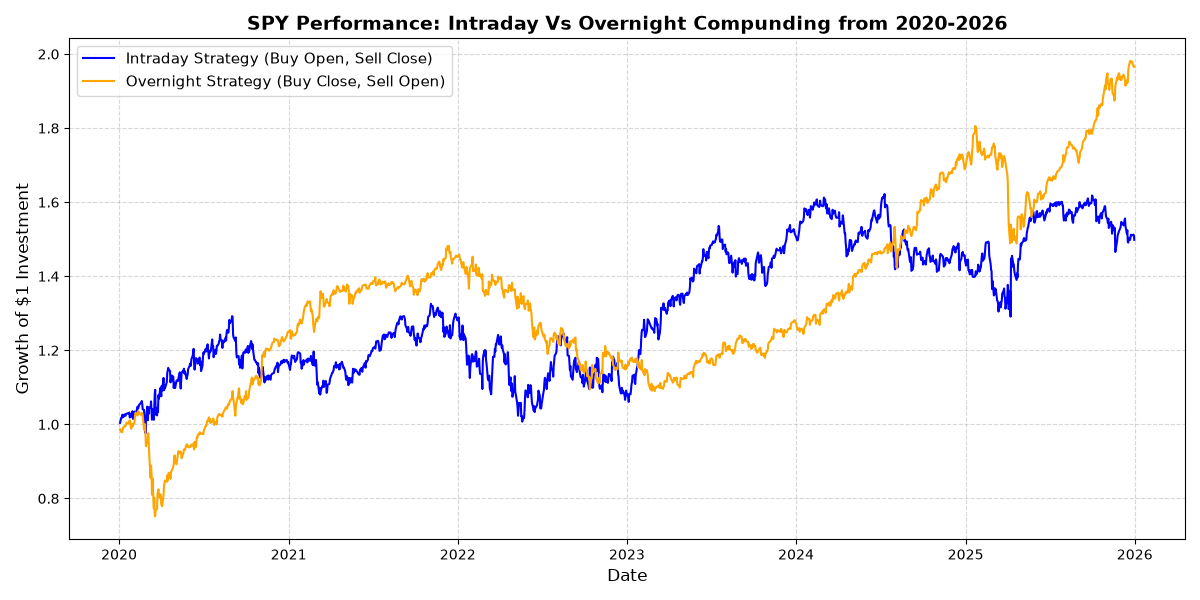
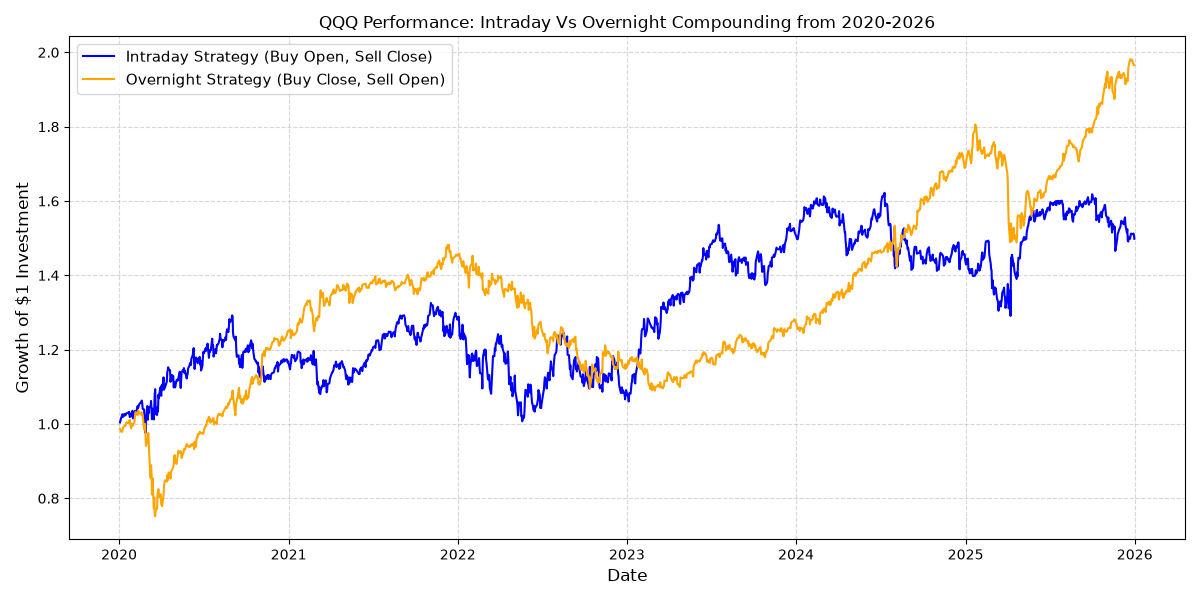
Complete project: add multi-asset dashboard support, metrics validation, and documentation

diff --git a/backtest.py b/backtest.py
@@ -11,7 +11,7 @@ def download_data(ticker, start_date, end_date):
     movement
     """
     print(f'Fetching historical data for {ticker} from {start_date} to {end_date}...')
-    data = yf.download(ticker, start=start_date, end=end_date)
+    data = yf.download(ticker, start=start_date, end=end_date, multi_level_index=False)
     return data
 
 
@@ -32,7 +32,7 @@ def calculate_returns(data):
     df = df.dropna()
     return df
 
-def plot_results(df):
+def plot_results(df, ticker):
     """
     Computing cumulative compunding returns and plotting equity curves.
     """
@@ -48,7 +48,7 @@ def plot_results(df):
     plt.plot(df.index, df['Overnight_Equity'], label='Overnight Strategy (Buy Close, Sell Open)', color = 'orange', lw=1.5)
 
     #4 Styling
-    plt.title('SPY Performance: Intraday Vs Overnight Compunding from 2020-2026', fontsize=14, fontweight='bold')
+    plt.title(f'{ticker.upper()} Performance: Intraday Vs Overnight Compounding from 2020-2026')
     plt.xlabel('Date', fontsize=12)
     plt.ylabel('Growth of $1 Investment', fontsize=12)
     plt.grid(True, linestyle='--', alpha=0.5)
@@ -57,7 +57,7 @@ def plot_results(df):
     #5 Displaying chart
     plt.tight_layout()
     print('Generating plot... (Close the chart window to return to terminal)')
-    plt.savefig('qqq_performance.png')
+    plt.savefig(f'{ticker.lower()}_performance.png')
 
 
 
@@ -65,7 +65,7 @@ def plot_results(df):
 
 if __name__ == '__main__':
     # Defining real variables
-    TICKER = 'QQQ'
+    TICKER = 'NVDA'
     START = '2020-01-01'
     END = '2026-01-01'
 
@@ -82,7 +82,7 @@ if __name__ == '__main__':
     intraday_clean = df['Intraday_Return'].dropna()
 
     #Performing two-sample t-test (unequal variances)
-    t_stat, p_val = stats.ttest_ind(overnight_clean, intraday_clean, equal_var=False)
+    t_stat, p_val = stats.ttest_rel(overnight_clean, intraday_clean)
     print(f"T-statistic: {t_stat:.4f}")
     print(f"P-value: {p_val:.4f}")
 
@@ -91,5 +91,5 @@ if __name__ == '__main__':
     else:
         print("Result: Not statistically significant, the overnight difference may be due to market noise.")
     # Calling visualization function
-    plot_results(df)
+    plot_results(df, TICKER)
     

diff --git a/app.py b/app.py
@@ -10,7 +10,7 @@ st.title('Overnight Vs Intraday Return Backtest')
 
 #Sidebar
 st.sidebar.header('Strategy Settings')
-ticker = st.sidebar.selectbox('Select Asset Ticker', ['SPY', 'QQQ'])
+ticker = st.sidebar.selectbox('Select Asset Ticker', ['SPY', 'QQQ', 'IWM', 'DIA', 'AAPL', 'MSFT', 'NVDA'])
 
 #Date Windows
 start_date = st.sidebar.date_input("Start Date", datetime.date(2020, 1, 1))
@@ -29,7 +29,7 @@ if ticker:
         #Run stat validation on date range
         overnight_clean = df['Overnight_Return'].dropna()
         intraday_clean = df['Intraday_Return'].dropna()
-        t_stat, p_val = stats.ttest_ind(overnight_clean, intraday_clean, equal_var=False)
+        t_stat, p_val = stats.ttest_rel(overnight_clean, intraday_clean)
 
         #Display real stat metrics dynamically
         st.write('### Statistical Metrics')

diff --git a/README.md b/README.md
@@ -1,8 +1,8 @@
 # Overnight-Vs-Intraday-Return-SPY-Backtest
-This is an empirical analysis aimed to explore whether historical equity risk premium of the S&P 500 (SPY) is captured during overnight market closure or regular trading hours during the day. 
+This is an empirical analysis aimed to explore whether historical equity risk premium of the S&P 500 (SPY) is captured during overnight market closure or regular trading hours during the day. Ended up being a multi asset test of this same principle.
 
 # Progress
-1. Data Acqisition - Data ingestion engine built using python with yfinance API to pull OHLCV metrics.
+1. Data Acquisition - Data ingestion engine built using python with yfinance API to pull OHLCV metrics.
 
 2. Return Stream Computation - Implemented pandas logic to isolate daily Intraday and Overnight return streams. 
 
@@ -30,6 +30,20 @@ This project requires Python  3 and the following third-party libraries
 pip install yfinance pandas matplotlib scipy streamlit
 
 ### Usage
+
+## How to Run Backtest
+Backtest Script: Open 'backtest.py' and locate execution block
+```python
+if __name__ == '__main__':
+    TICKER = 'QQQ' #Change this to 'SPY' or 'QQQ' or ANY asset ticker
+```
 Execute the backtest directly from the terminal:
-'''bash
+```bash
 python backtest.py
+```
+## How to Run Interactive Dashboard
+'app.py':  Includes interactive web interface
+Run Streamlit application from terminal
+```bash
+streamlit run app.py
+```
